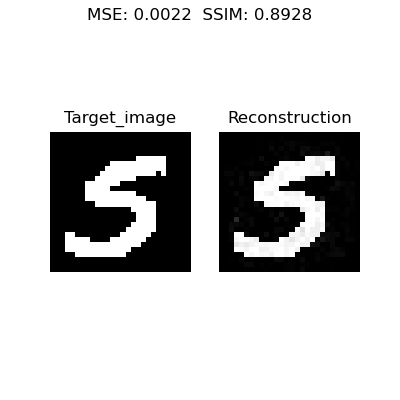
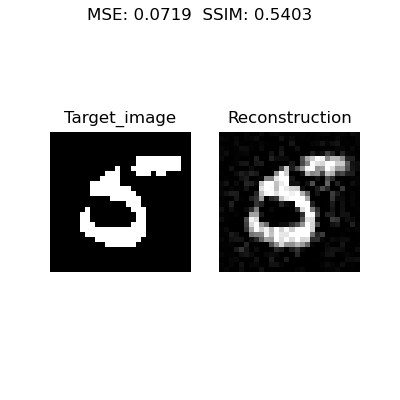
cuda実行完了.

diff --git a/src/train.py b/src/train.py
@@ -5,7 +5,7 @@ import torch
 import torch.nn as nn
 import torch.optim as optim
 
-from models.unet_ad import UNet1D
+from models.fcmodel import FCModel
 
 # from models.skip import skip
 from utils.exp_utils import (
@@ -17,8 +17,9 @@ from utils.exp_utils import (
 )
 
 # ==========================================================================
-exp_data_dir = "data/experiment"
-pixel = 8
+exp_data_dir = "../data/experiment"
+save_dir = "../results/"
+pixel = 28
 # print(os.path.exists(exp_data_dir))
 if pixel == 28:
     exp_collected = os.path.join(
@@ -82,7 +83,7 @@ else:
 print("Using device:", device)
 
 # save_dir Exists
-print(os.path.exists("results/pix8"))
+print(os.path.exists("../results/pix28"))
 
 ######################################################
 # Training function
@@ -91,8 +92,8 @@ print(os.path.exists("results/pix8"))
 loss_total = []
 reconstructed_total = []
 num_images = 10
-learning_rate = 0.00001
-num_epochs = 3000
+learning_rate = 0.0001
+num_epochs = 10000
 S_0_tensor = S_0_tensor.to(device)
 
 print("S max, S min:", S_0_tensor.max(), S_0_tensor.min())
@@ -100,10 +101,10 @@ print("Y_mnist max, min:", Y_mnist_tensor.max(), Y_mnist_tensor.min())
 
 for i in range(num_images):
     # initialize model and params
-    # model = FCModel(
-    #     input_size=10000, hidden_size=1024, output_size=784, name="DefaultFC"
-    # ).to(device)
-    model = UNet1D().to(device)
+    model = FCModel(
+        input_size=10000, hidden_size=1024, output_size=784, name="DefaultFC"
+    ).to(device)
+    # model = UNet1D().to(device)
     # model = MultiscaleSpeckleNet(outdim=64).to(device)
     # model = Conv1DModel().to(device)
     # model = skip().to(device)
@@ -153,7 +154,7 @@ for i in range(num_images):
 # print("min, max rec_img:", reconstructed_total.max(), reconstructed_total.min())
 # mse_val = mean_squared_error(X_mnist[:num_images, :], reconstructed_total)
 np.savez(
-    f"results/pix{pixel}_npz/{model.model_name}_img_09_iter{num_epochs}_lr{learning_rate}.npz",
+    f"{save_dir}pix{pixel}_npz/{model.model_name}_img_09_iter{num_epochs}_lr{learning_rate}.npz",
     reconstructed_total,
 )
 # print(mse_val)

diff --git a/src/utils/exp_utils.py b/src/utils/exp_utils.py
@@ -59,8 +59,8 @@ def collect_diff_and_skip(collect):
 def load_mnist(target_path, collect_path, pixel):
     X_all, Y_all = load_data(target_path, collect_path)
     if pixel == 28:
-        Y_mnist = Y_all[:1000, :]
-        X_mnist = X_all[:1000, :]
+        Y_mnist = Y_all[990:1000, :]
+        X_mnist = X_all[990:1000, :]
     elif pixel == 8:
         Y_mnist = Y_all[64:74, :]
         X_mnist = X_all[64:74, :]
@@ -149,7 +149,7 @@ def image_display(j, xx, yy, model, epochs, lr, size=28, num=1):
     print("SSIM=", ssim_val)
 
     # 保存先のディレクトリを決定
-    save_dir = os.path.join("results", f"pix{size}", str(model))
+    save_dir = os.path.join("../results", f"pix{size}", str(model))
     if not os.path.exists(save_dir):  # 存在しなければ作る
         os.makedirs(save_dir)
 
@@ -176,7 +176,8 @@ def image_display(j, xx, yy, model, epochs, lr, size=28, num=1):
     # 図を保存
     save_file = os.path.join(save_dir, f"img_{num}_iter{epochs}_lr{lr}.png")
     plt.savefig(save_file)
-    plt.close(fig)
+    print(f"saved! {save_file}")
+    # plt.close(fig)
 
 
 def ssim_score(img1, img2):
